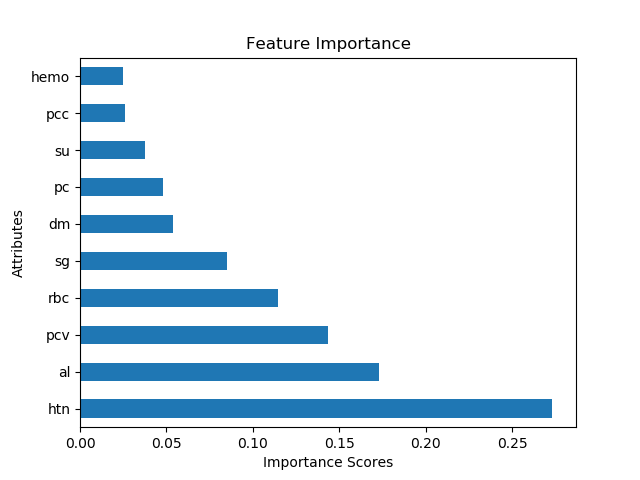
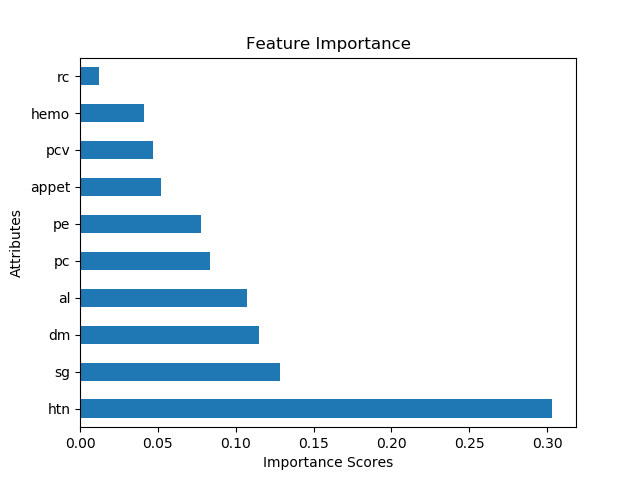
update code

diff --git a/PS4/code/preprocessing.py b/PS4/code/preprocessing.py
@@ -1,29 +1,30 @@
 import numpy as np
 
 def myPreprocessing(data):
-    
+
     print('#--------------------- Preprocessing ----------------------------------#')
-          
+
     print(data)
+    #data.drop(data.columns[0], axis=1)
 # The original data has some mistype value, replace
     data.replace('ckd\t', 'ckd', regex=True)
     # Make sure that there are only 2
     print(data['classification'].value_counts())
     # Replace missing data
     data = data.replace('?',np.NaN)
-    
+
     print('Number of instances = %d' % (data.shape[0]))
     print('Number of attributes = %d' % (data.shape[1]))
-    
+
     print('Number of missing values:')
     for col in data.columns:
         print('\t%s: %d' % (col,data[col].isna().sum()))
-    
+
     # Drop the missing data
     print('Number of rows in original data = %d' % (data.shape[0]))
     data2 = data.dropna()
     print('Number of rows after discarding missing values = %d' % (data2.shape[0]))
-    
+
     # Make the text data become numeric
     data2 = data2.replace('normal',1)
     data2 = data2.replace('abnormal',0)
@@ -35,9 +36,9 @@ def myPreprocessing(data):
     data2 = data2.replace('good',1)
     data2 = data2.replace('notckd',0)
     data2 = data2.replace('ckd',1)
-    
-    
+
+
     # Save data to a csv file
     np.savetxt('csv/kidneyclean.csv', data2, delimiter=',', fmt='%s')
-    
+
     return data2

diff --git a/PS4/code/main.py b/PS4/code/main.py
@@ -36,7 +36,7 @@ if not path.exists(args.dataSet):
 else:
 
     data = pd.read_csv(args.dataSet, sep=',')
-    #data.columns = ['ID','age', 'bp', 'sg', 'al','su','rbc','pc','pcc', 'ba','bgr','bu','sc','sod','pod','hemo','pcv','wbcc',
+    # data.columns = ['ID','age', 'bp', 'sg', 'al','su','rbc','pc','pcc', 'ba','bgr','bu','sc','sod','pod','hemo','pcv','wbcc',
     #               'rbcc','htn','dm','cad','appet','pe','ane','class']
 
 
@@ -74,14 +74,17 @@ else:
 
     myExtraTreesClassifier(X,Y)
 
+    #Heatmap original relations
 
-    #Heatmap relations
-
-    myHeatmap(data2)
-
+    myHeatmap(data2,"original")
     # drop some not important attributes
 
-    data2 = data2[['pcv', 'htn','dm','al','pc','su','bgr', 'classification']]
+    data2 = data2[['pcv', 'htn','dm','al','pc','sc','bgr', 'classification']]
+
+    #Heatmap important relations
+
+    myHeatmap(data2,"important")
+
     np.savetxt('csv/data.csv', data2, delimiter=',', fmt='%s')
     Y1 = data2['classification']
     X1 = data2.drop(['classification'],axis=1)

diff --git a/PS4/code/Heatmap.py b/PS4/code/Heatmap.py
@@ -1,11 +1,11 @@
 import matplotlib.pyplot as plt
 import seaborn as sns
 
-def myHeatmap(data2):
+def myHeatmap(data2,name):
     corrmat = data2.corr()
     top_corr_features = corrmat.index
     plt.figure(figsize=(20,20))
     #plot heat map
     sns.heatmap(data2[top_corr_features].corr(),annot=True,cmap="RdYlGn")
-    plt.savefig("image/corelations.png")
+    plt.savefig("image/corelations_"+name+".png")
     plt.clf()

diff --git a/PS4/code/Feature_RFE.py b/PS4/code/Feature_RFE.py
@@ -5,9 +5,9 @@ def myFeature_RFE(X,Y):
 
     # feature extraction
     print('#----------------------------- Feature Extraction : RFE  -------------------------------------#')
-    
+
     model = LogisticRegression()
-    rfe = RFE(model, 8)
+    rfe = RFE(model, 10)
     fit = rfe.fit(X, Y)
     print("Num Features: %d" % fit.n_features_)
     print("Selected Features: %s" % fit.support_)

diff --git a/PS4/code/Feature_univariate.py b/PS4/code/Feature_univariate.py
@@ -6,8 +6,8 @@ def myFeature_univariate(data2,X,Y):
 
     # feature extraction
     print('#----------------------------- Feature Extraction : Univariate  -------------------------------------#')
-    
-    test = SelectKBest(score_func=chi2, k=8)
+
+    test = SelectKBest(score_func=chi2, k=10)
     fit = test.fit(X, Y)
     # summarize scores
     numpy.set_printoptions(precision=3)

diff --git a/PS4/code/PCA.py b/PS4/code/PCA.py
@@ -3,8 +3,8 @@ from sklearn.decomposition import PCA
 
 def myPCA(X):
     print('#----------------------------- Feature Extraction : PCA -------------------------------------#')
-    
-    pca = PCA(n_components=8)
+
+    pca = PCA(n_components=10)
     fit = pca.fit(X)
     # summarize components
     print("Explained Variance: %s" % fit.explained_variance_ratio_)
